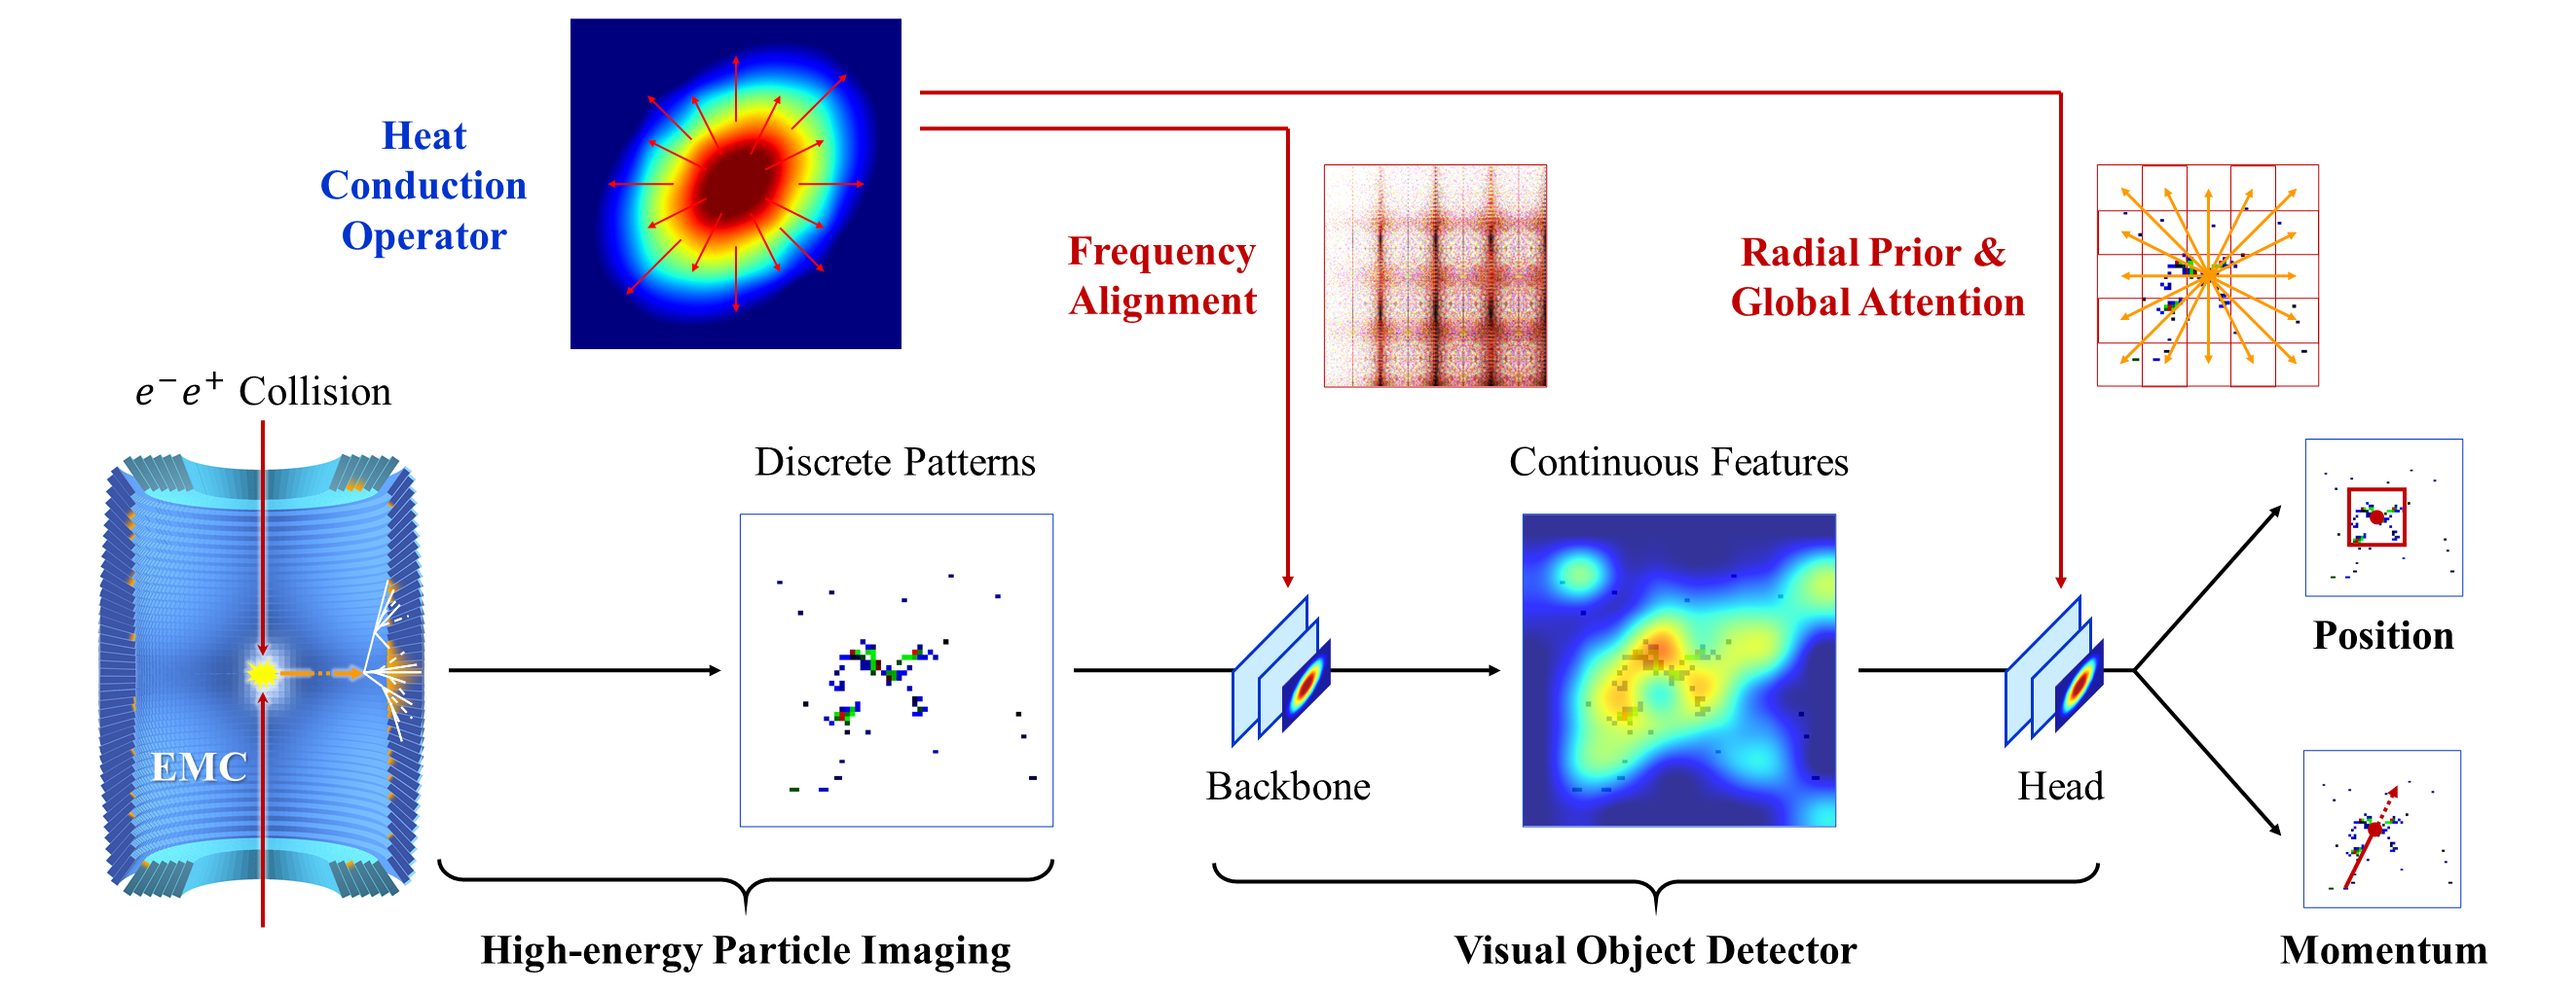
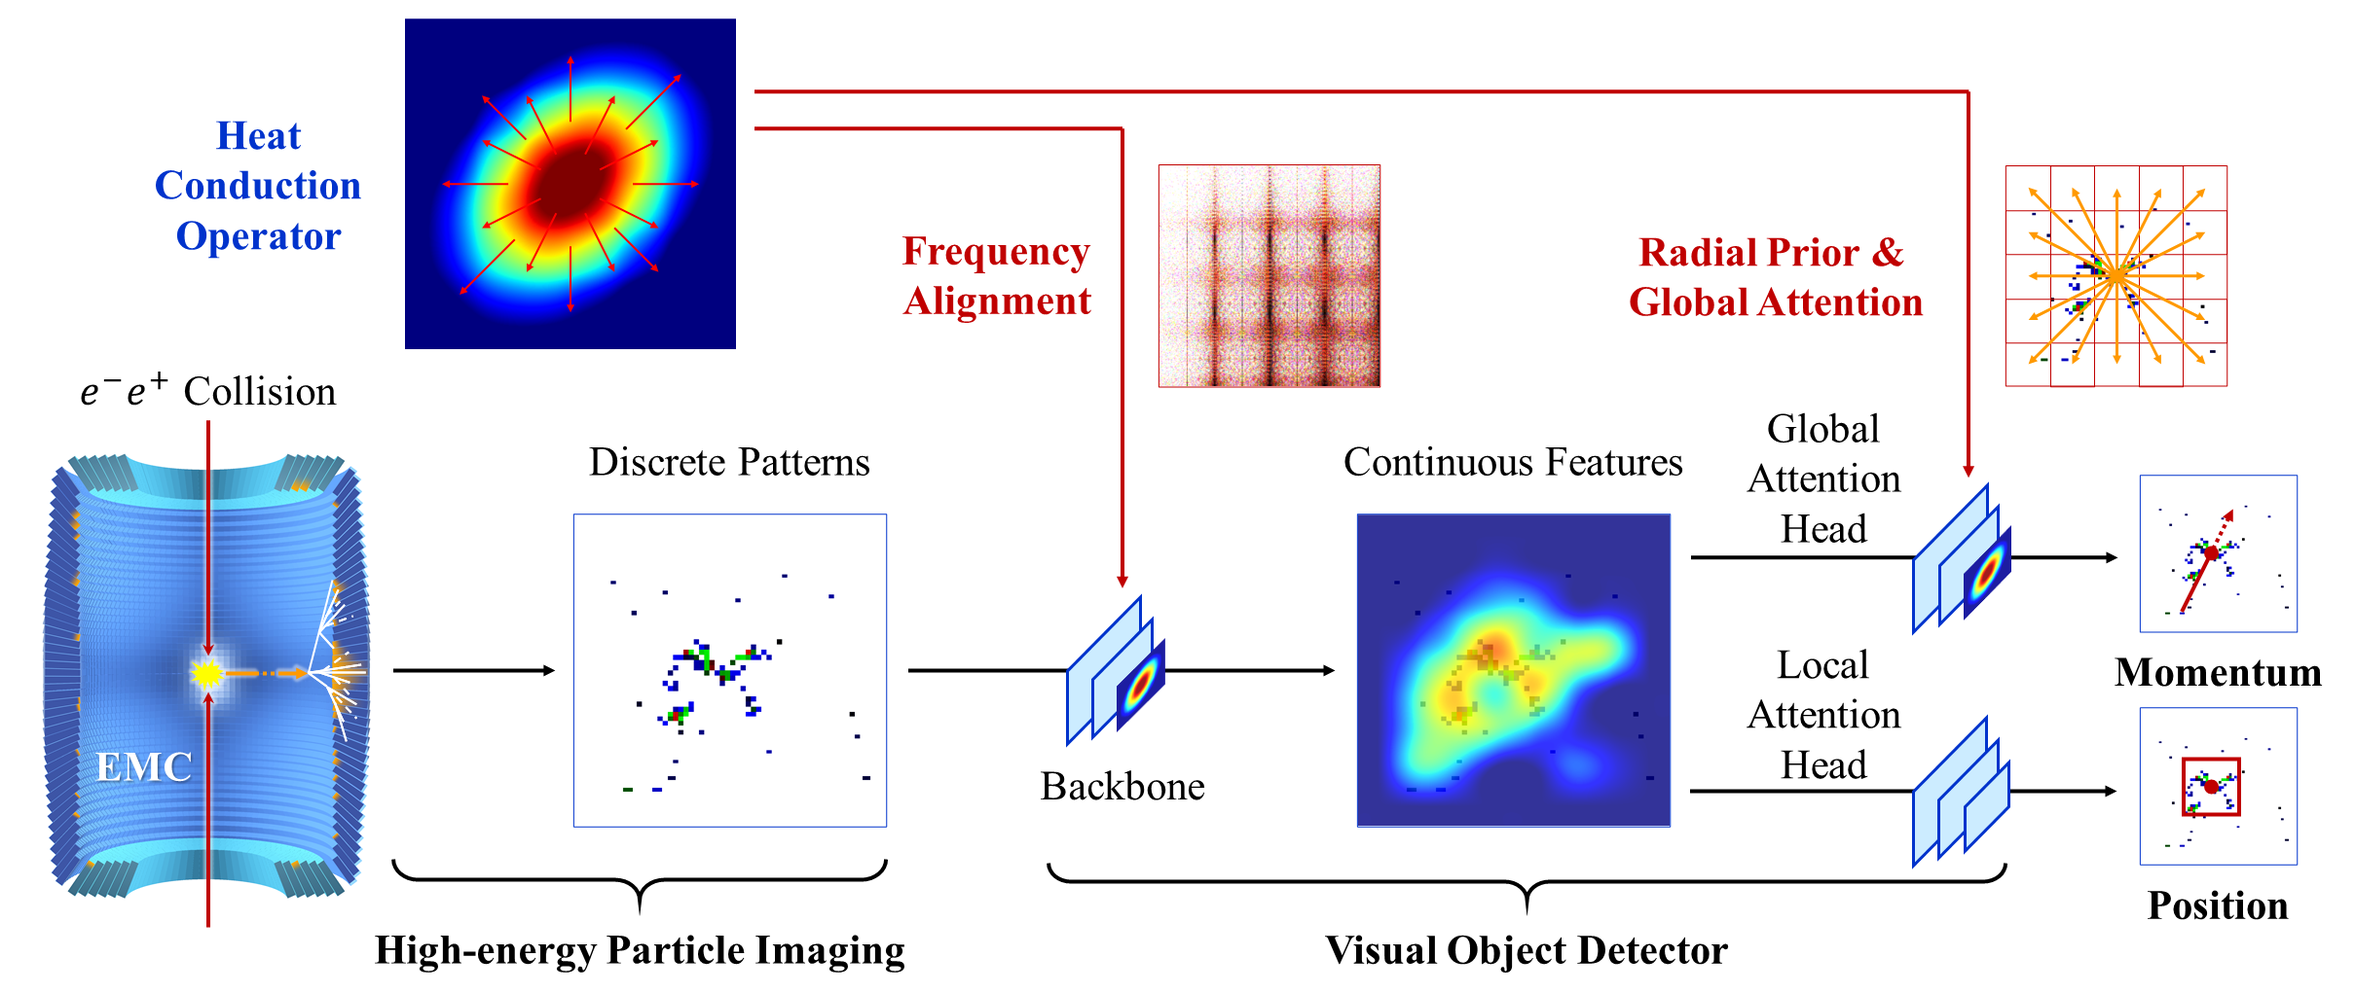
Fix some bugs for NMS in hepv2_dense_head.py

diff --git a/mmdetection-main/mmdet/models/dense_heads/hepv2_dense_head.py b/mmdetection-main/mmdet/models/dense_heads/hepv2_dense_head.py
@@ -891,7 +891,7 @@ class HEPv2DenseHead(BaseDenseHead):
             raise NotImplementedError
 
         keep_idxs = self.nms_for_phithe(
-            max_scores, decoded_phithe, priors,
+            max_scores, max_labels, decoded_phithe, # priors,
             self.phithe_nms_thr, self.score_thr, self.max_per_img, device)
 
         results = InstanceData()
@@ -904,15 +904,16 @@ class HEPv2DenseHead(BaseDenseHead):
         return results
 
     def nms_for_phithe(self,
-                       scores, phithe_preds, priors,
+                       scores, labels, phithe_preds, # priors,
                        phithe_nms_thr, score_thr, max_per_img, device):
         """
         张量化实现的NMS操作，基于phi/theta坐标
 
         Args:
             scores: torch.Tensor [N] 置信度
+            labels: torch.Tensor [N] 类别标签
             phithe_preds: torch.Tensor [N, 2] phi和theta预测值
-            priors: torch.Tensor [N, 2] phi和theta先验值
+            # priors: torch.Tensor [N, 2] phi和theta先验值
             phithe_nms_thr: float NMS阈值
             score_thr: float 置信度阈值
             max_per_img: int 每张图片最大保留数
@@ -924,8 +925,9 @@ class HEPv2DenseHead(BaseDenseHead):
 
         # 对scores进行降序排列，并按这个排列索引重排对应的phithe_preds和priors
         sorted_scores, sorted_indices = torch.sort(scores, descending=True)
+        sorted_labels = labels[sorted_indices]
         sorted_phithe_preds = phithe_preds[sorted_indices]
-        sorted_priors = priors[sorted_indices]
+        # sorted_priors = priors[sorted_indices]
 
         keep_mask = torch.ones(N, dtype=torch.bool, device=device)
         keep_num = 0
@@ -949,24 +951,39 @@ class HEPv2DenseHead(BaseDenseHead):
                 break
 
             # 类似于NMS操作的：
-            # 对于一个score值对应的一对(phi_pred_high, the_pred_high)值和一对(phi_priors_high, the_prior_high)值，
-            # 遍历所有更小score值对应的(phi_pred_low, the_pred_low)值和(phi_priors_low, the_prior_low)值，
-            #     如果满足abs(phi_priors_low-phi_priors_high)<phithe_nms_thr & abs(the_priors_low-the_priors_high)<phithe_nms_thr，
-            #         那么如果它同时满足abs(phi_pred_low-phi_pred_high)<phithe_nms_thr*2 & abs(the_pred_low-the_pred_high)<phithe_nms_thr*2，
-            #             则其keep_mask标记为False；
-            #     如果不满足，
-            #         那么如果它同时满足abs(phi_pred_low-phi_pred_high)<phithe_nms_thr & abs(the_pred_low-the_pred_high)<phithe_nms_thr，
+            # 对于一个score值对应的一对(phi_pred_high, the_pred_high)值和label_high值，
+            # 遍历所有更小score值对应的(phi_pred_low, the_pred_low)值和label_low值，
+            #     如果满足label_high==label_low，
+            #         且同时满足abs(phi_pred_low-phi_pred_high)<phithe_nms_thr & abs(the_pred_low-the_pred_high)<phithe_nms_thr，
             #             则其keep_mask标记为False。
-            phi_priors_diff = torch.abs(sorted_priors[i+1:, 0] - sorted_priors[i, 0])
-            the_priors_diff = torch.abs(sorted_priors[i+1:, 1] - sorted_priors[i, 1])
+            label_diff = torch.abs(sorted_labels[i+1:] - sorted_labels[i])
             phi_pred_diff = torch.abs(sorted_phithe_preds[i+1:, 0] - sorted_phithe_preds[i, 0])
             the_pred_diff = torch.abs(sorted_phithe_preds[i+1:, 1] - sorted_phithe_preds[i, 1])
 
-            prior_close = (phi_priors_diff < phithe_nms_thr) & (the_priors_diff < phithe_nms_thr)
-            pred_close_2x = (phi_pred_diff < phithe_nms_thr * 2) & (the_pred_diff < phithe_nms_thr * 2)
-            pred_close_1x = (phi_pred_diff < phithe_nms_thr) & (the_pred_diff < phithe_nms_thr)
+            label_close = (label_diff < self.eps)
+            pred_close = (phi_pred_diff < phithe_nms_thr) & (the_pred_diff < phithe_nms_thr)
 
-            suppress = (prior_close & pred_close_2x) | (~prior_close & pred_close_1x)
+            suppress = (label_close & pred_close)
+
+            # # 对于一个score值对应的一对(phi_pred_high, the_pred_high)值和一对(phi_priors_high, the_prior_high)值，
+            # # 遍历所有更小score值对应的(phi_pred_low, the_pred_low)值和(phi_priors_low, the_prior_low)值，
+            # #     如果满足abs(phi_priors_low-phi_priors_high)<phithe_nms_thr & abs(the_priors_low-the_priors_high)<phithe_nms_thr，
+            # #         那么如果它同时满足abs(phi_pred_low-phi_pred_high)<phithe_nms_thr*2 & abs(the_pred_low-the_pred_high)<phithe_nms_thr*2，
+            # #             则其keep_mask标记为False；
+            # #     如果不满足，
+            # #         那么如果它同时满足abs(phi_pred_low-phi_pred_high)<phithe_nms_thr & abs(the_pred_low-the_pred_high)<phithe_nms_thr，
+            # #             则其keep_mask标记为False。
+            # phi_priors_diff = torch.abs(sorted_priors[i+1:, 0] - sorted_priors[i, 0])
+            # the_priors_diff = torch.abs(sorted_priors[i+1:, 1] - sorted_priors[i, 1])
+            # phi_pred_diff = torch.abs(sorted_phithe_preds[i+1:, 0] - sorted_phithe_preds[i, 0])
+            # the_pred_diff = torch.abs(sorted_phithe_preds[i+1:, 1] - sorted_phithe_preds[i, 1])
+
+            # prior_close = (phi_priors_diff < phithe_nms_thr) & (the_priors_diff < phithe_nms_thr)
+            # pred_close_2x = (phi_pred_diff < phithe_nms_thr * 2) & (the_pred_diff < phithe_nms_thr * 2)
+            # pred_close_1x = (phi_pred_diff < phithe_nms_thr) & (the_pred_diff < phithe_nms_thr)
+
+            # suppress = (prior_close & pred_close_2x) | (~prior_close & pred_close_1x)
+
             # 保留已标记的False，新增~suppress标记的False
             keep_mask[i+1:] = keep_mask[i+1:] & (~suppress)
 

diff --git a/README.md b/README.md
@@ -1,17 +1,15 @@
 # Vision Calorimeter (ViC) and Anti-Neutron Transformer (ANT)
 
-## Vision Calorimeter: Migrating Visual Object Detectors to High-Energy Particle Images
+## Vision Calorimeter for High-Energy Particle Detection
 
 <div align=center><img src="./figures/vic_figure_1.png"></div>
 
-In the field of high-energy physics, accurately estimating the kinematic parameters (position and momentum) of anti-neutrons ($\bar{n}$) is crucial for exploring the fundamental governing principles.
-However, this process is particularly challenging with discrete and scattered energy information when using an electromagnetic calorimeter (EMC) as the detector.
-To address this issue, we propose Vision Calorimeter (ViC), a data-driven framework which migrates visual object detection techniques to high-energy particle images.
-To accommodate the unique characteristics of particle images, we introduce the heat-conduction operator (HCO) into the backbone and the head of conventional object detector, along with significant structural improvements.
-HCO enjoys advantages of both radial prior and global attention, as it is inspired by physical heat conduction which naturally aligns with the pattern of particle incidence.
-Implemented via the Discrete Cosine Transform (DCT), HCO extracts frequency-domain features, bridging the distribution gap between particle images and natural images where visual object detectors are pre-trained.
-Experiments demonstrate that ViC significantly outperforms conventional approaches, reducing the incident position prediction error by 46.16\% (from 17.31° to 9.32°) and providing the first baseline result with an incident momentum regression error of 21.48\%.
-This study underscores ViC's great potential as a general-purpose particle parameter estimator for high-energy physics.
+In high-energy physics, estimating anti-neutron parameters (position and momentum) using the electromagnetic calorimeter (EMC) is crucial but challenging.
+To conquer this challenge, we propose Vision Calorimeter (ViC), a framework that migrates visual object detectors to analyze particle images.
+The motivation lies in introducing a physics-inspired heat-conduction operator (HCO) into the detector's backbone and head to handle the discrete and sparse patterns of these images.
+Implemented via the Discrete Cosine Transform, HCO extracts frequency-domain features, bridging the distribution gap between natural and particle images.
+Experiments demonstrate that ViC significantly outperforms conventional methods, reducing the incident position prediction error by 46.16\% (from 17.31° to 9.32°) and providing the first baseline result with an incident momentum regression error of 21.48\%.
+This study underscores ViC's great potential as a reliable particle detector for high-energy physics.
 Code is available at https://github.com/yuhongtian17/ViC.
 
 ## Anti-Neutron Transformer for High-Energy Particle Detection
@@ -44,10 +42,10 @@ wget https://developer.download.nvidia.com/compute/cuda/12.4.1/local_installers/
 chmod +x ./cuda_12.4.1_550.54.15_linux.run
 sudo sh cuda_12.4.1_550.54.15_linux.run
 
-vi ~/.bashrc
 # Add CUDA path
-# export PATH=/usr/local/cuda-12.4/bin:$PATH
-# export LD_LIBRARY_PATH=/usr/local/cuda-12.4/lib64:$LD_LIBRARY_PATH
+echo "export PATH=/usr/local/cuda-12.4/bin:\$PATH" >> ~/.bashrc
+echo "export LD_LIBRARY_PATH=/usr/local/cuda-12.4/lib64:\$LD_LIBRARY_PATH" >> ~/.bashrc
+echo "" >> ~/.bashrc
 source ~/.bashrc
 nvcc -V
 
@@ -61,6 +59,7 @@ conda activate openmmlab241b
 # ref: https://pytorch.org/get-started/previous-versions/#v241
 conda install pytorch==2.4.1 torchvision==0.19.1 torchaudio==2.4.1 pytorch-cuda=12.4 -c pytorch -c nvidia
 
+pip install pip==24.3.1 --index https://pypi.tuna.tsinghua.edu.cn/simple/
 pip install numpy==1.26.4 ninja==1.11.1.1 psutil==6.1.0 --index https://pypi.tuna.tsinghua.edu.cn/simple/
 pip install matplotlib==3.9.3 opencv-python==4.10.0.84 cython==3.0.11 --index https://pypi.tuna.tsinghua.edu.cn/simple/
 
@@ -75,6 +74,7 @@ wget https://github.com/open-mmlab/mmdetection/archive/refs/tags/v3.3.0.zip -O m
 unzip mmdetection-3.3.0.zip
 cd mmdetection-3.3.0/
 
+# Modify Line 9 in "./mmdet/__init__.py" to >>> mmcv_maximum_version = '3.0.0'
 pip install -v -e . --index https://pypi.tuna.tsinghua.edu.cn/simple/
 
 # IF MSCOCO2017 Dataset does not exist
